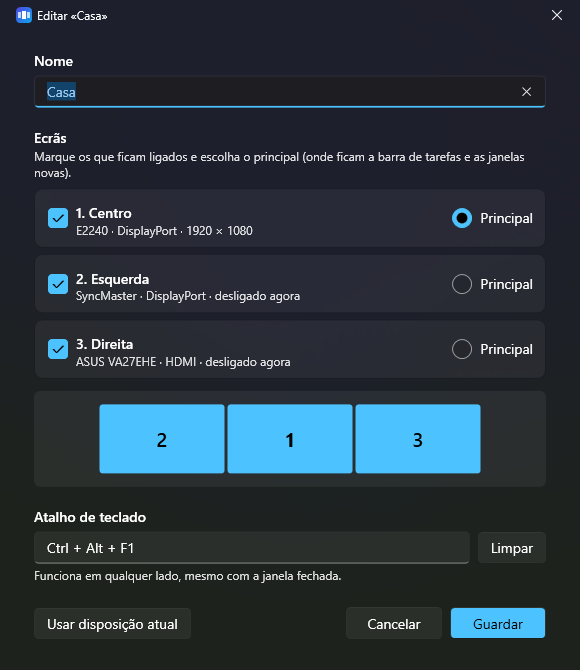
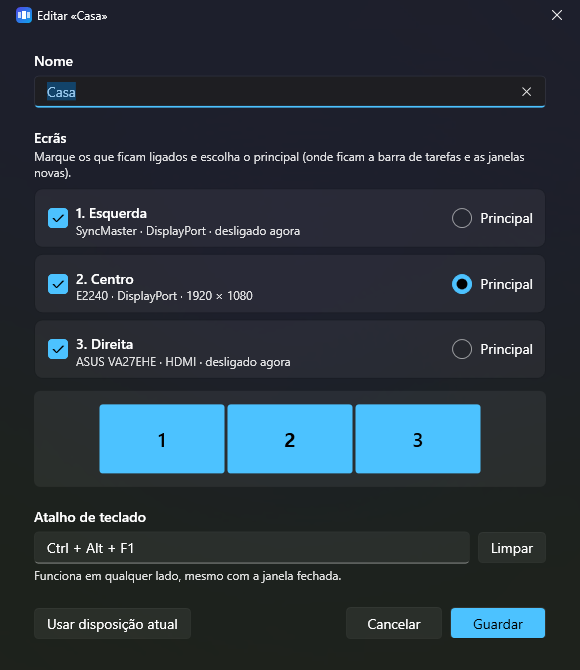
Desinstalador, GitHub Actions e ecrãs numerados pela posição
- tools/desinstalar.ps1: fecha a app e remove ficheiros, atalho e arranque
  automático; -Tudo apaga também os perfis e -WhatIf só simula. Não apaga
  pastas que sejam junções.
- compilar.yml compila a cada push (avisos contam como erros); publicar.yml
  cria a Release com o .exe leve, o autónomo e SHA256SUMS a cada etiqueta v*.
- As posições conhecidas passam a viver num referencial único, alinhado pelo
  ecrã que está ligado, e os ecrãs são numerados da esquerda para a direita,
  ligados ou não. As posições conhecidas são alinhadas com as de cada perfil
  antes de se misturarem.
- README e LEIAME: descarregar, desinstalar, compilação; capturas novas.

diff --git a/src/Triptico/App.xaml.cs b/src/Triptico/App.xaml.cs
@@ -136,15 +136,33 @@ public partial class App : Application
             return;
         }
 
+        // As posições conhecidas vivem num referencial único. As do Windows são relativas ao
+        // ecrã principal, que muda de perfil para perfil; por isso a disposição atual é
+        // alinhada com a última posição conhecida de um ecrã que esteja ligado agora.
+        var active = Monitors.Where(m => m.Active).ToList();
+        var anchor = active.FirstOrDefault(m => Settings.LastKnown.ContainsKey(m.Id));
+        var (dx, dy) = anchor is null ? (0, 0) : (Settings.LastKnown[anchor.Id].X - anchor.X, Settings.LastKnown[anchor.Id].Y - anchor.Y);
+
         var changed = false;
-        foreach (var m in Monitors.Where(m => m.Active))
+        foreach (var m in active)
         {
-            if (Settings.LastKnown.TryGetValue(m.Id, out var k) && k.X == m.X && k.Y == m.Y && k.Width == m.Width && k.Height == m.Height)
+            var (x, y) = (m.X + dx, m.Y + dy);
+            if (Settings.LastKnown.TryGetValue(m.Id, out var k) && k.X == x && k.Y == y && k.Width == m.Width && k.Height == m.Height)
                 continue;
-            Settings.LastKnown[m.Id] = new KnownRect { X = m.X, Y = m.Y, Width = m.Width, Height = m.Height };
+            Settings.LastKnown[m.Id] = new KnownRect { X = x, Y = y, Width = m.Width, Height = m.Height };
             changed = true;
         }
         if (changed && save) Save();
+
+        // Numerar pela posição física (da esquerda para a direita), esteja o ecrã ligado ou não;
+        // os que nunca estiveram ligados vão para o fim.
+        Monitors = Monitors
+            .OrderBy(m => Settings.LastKnown.ContainsKey(m.Id) ? 0 : 1)
+            .ThenBy(m => Settings.LastKnown.TryGetValue(m.Id, out var k) ? k.X : 0)
+            .ThenBy(m => Settings.LastKnown.TryGetValue(m.Id, out var k) ? k.Y : 0)
+            .ThenBy(m => m.Connector)
+            .ToList();
+
         StateChanged?.Invoke();
     }
 
@@ -158,9 +176,6 @@ public partial class App : Application
 
     /// <summary>Número do ecrã (1, 2, 3...) na lista "Ecrãs ligados".</summary>
     public int MonitorNumber(MonitorInfo m) => Monitors.IndexOf(m) + 1;
-
-    public LayoutRect? LastKnownRect(string monitorId) =>
-        Settings.LastKnown.TryGetValue(monitorId, out var k) ? new LayoutRect(k.X, k.Y, k.Width, k.Height) : null;
 
     public void Save()
     {
@@ -310,7 +325,7 @@ public partial class App : Application
         try
         {
             var snapshot = profile.Clone();
-            var known = Settings.LastKnown.ToDictionary(kv => kv.Key, kv => new LayoutRect(kv.Value.X, kv.Value.Y, kv.Value.Width, kv.Value.Height));
+            var known = Settings.KnownPositionsFor(profile);
             var result = await Task.Run(() => DisplayManager.Apply(snapshot, id => known.TryGetValue(id, out var r) ? r : null));
             Log.Write($"Perfil «{profile.Name}»: {result.Message}");
 
@@ -393,7 +408,7 @@ internal static class CommandLine
                 return true;
             }
 
-            var known = settings.LastKnown.ToDictionary(kv => kv.Key, kv => new LayoutRect(kv.Value.X, kv.Value.Y, kv.Value.Width, kv.Value.Height));
+            var known = settings.KnownPositionsFor(profile);
             var result = DisplayManager.Apply(profile, id => known.TryGetValue(id, out var r) ? r : null, validateOnly: cmd == "--testar");
             Console.WriteLine($"{profile.Name}: {result.Message}" + (result.Missing.Count > 0 ? " Em falta: " + string.Join(", ", result.Missing) : ""));
             exitCode = result.Success ? 0 : 1;

diff --git a/src/Triptico/Profiles/Profile.cs b/src/Triptico/Profiles/Profile.cs
@@ -81,6 +81,17 @@ public sealed class KnownRect
 
 public sealed class AppSettings
 {
+    /// <summary>
+    /// Últimas posições conhecidas, trazidas para o referencial do perfil (alinhadas por um
+    /// ecrã que tenha posição nos dois), para se poderem misturar com as posições do perfil.
+    /// </summary>
+    public Dictionary<string, Display.LayoutRect> KnownPositionsFor(Profile profile)
+    {
+        var anchor = profile.Monitors.FirstOrDefault(pm => pm.HasPosition && LastKnown.ContainsKey(pm.Id));
+        var (ox, oy) = anchor is null ? (0, 0) : (anchor.X!.Value - LastKnown[anchor.Id].X, anchor.Y!.Value - LastKnown[anchor.Id].Y);
+        return LastKnown.ToDictionary(kv => kv.Key, kv => new Display.LayoutRect(kv.Value.X + ox, kv.Value.Y + oy, kv.Value.Width, kv.Value.Height));
+    }
+
     public List<Profile> Profiles { get; set; } = [];
     /// <summary>Nomes dados pelo utilizador aos monitores (id → nome).</summary>
     public Dictionary<string, string> Aliases { get; set; } = [];

diff --git a/src/Triptico/Views/LayoutPreview.cs b/src/Triptico/Views/LayoutPreview.cs
@@ -66,12 +66,13 @@ public sealed class LayoutPreview : FrameworkElement
     public static IReadOnlyList<PreviewItem> For(Profiles.Profile profile, App app)
     {
         var map = DisplayManager.Resolve(profile.Monitors, app.Monitors);
+        var known = app.Settings.KnownPositionsFor(profile);
         var rects = new List<(LayoutRect Rect, Profiles.ProfileMonitor Pm)>();
         foreach (var pm in profile.Monitors)
         {
             LayoutRect? rect = pm.HasPosition
                 ? new LayoutRect(pm.X!.Value, pm.Y!.Value, pm.Width ?? 1920, pm.Height ?? 1080)
-                : app.LastKnownRect(pm.Id);
+                : known.TryGetValue(pm.Id, out var k) ? k : null;
             if (rect is null && map.TryGetValue(pm, out var live) && live.Active) rect = live.Bounds;
             if (rect is { } r) rects.Add((r, pm));
         }

diff --git a/README.md b/README.md
@@ -15,6 +15,10 @@
 </p>
 
 <p align="center">
+  <a href="https://github.com/zimutes/triptico/actions/workflows/compilar.yml"><img src="https://github.com/zimutes/triptico/actions/workflows/compilar.yml/badge.svg" alt="Build"></a>
+</p>
+
+<p align="center">
   <img src="docs/janela-principal.png" width="600" alt="Tríptico main window: four profiles with a miniature of each layout, and the three connected displays">
 </p>
 
@@ -50,8 +54,8 @@ The tools that do this properly tend to be paid, or bury it under a hundred othe
 Tríptico does one thing: **profiles for your displays**, one hotkey each.
 
 ```text
- Home       [ 2 ][ 1 ][ 3 ]     Ctrl + Alt + F1    all three, side by side
- Work            [ 1 ]          Ctrl + Alt + F2    just the one that stays
+ Home       [ 1 ][ 2 ][ 3 ]     Ctrl + Alt + F1    all three, side by side
+ Work            [ 2 ]          Ctrl + Alt + F2    just the one that stays
  Movie                [ 3 ]     Ctrl + Alt + F3    only the big screen
 ```
 
@@ -66,7 +70,8 @@ Tríptico does one thing: **profiles for your displays**, one hotkey each.
   about combinations that would break typing: on many European layouts Ctrl + Alt *is*
   AltGr, so Ctrl + Alt + 2 would cost you the `@`.
 - **Tray menu** listing your profiles, with the active one ticked.
-- **Identify displays** puts a large number on every screen for three seconds.
+- **Identify displays** puts a large number on every screen for three seconds. Displays are
+  numbered left to right as they sit on your desk, whether they're on or off right now.
 - **Your own names** for displays ("Left", "Laptop"…), used everywhere in the app.
 - **Command line**, for desktop shortcuts, Stream Deck buttons or scripts.
 - **Starts with Windows** if you want it to. No administrator rights needed, ever.
@@ -99,11 +104,19 @@ the monitor's EDID.
 
 ## Install
 
-**Requirements:** Windows 10 or 11 (x64) and the
-[.NET 10 Desktop Runtime](https://dotnet.microsoft.com/download/dotnet/10.0). Or build the
-self-contained version below and install nothing else.
+**Requirements:** Windows 10 or 11 (x64).
 
-Clone the repository and run, from PowerShell:
+**Download** from [Releases](https://github.com/zimutes/triptico/releases) when one is
+published:
+
+- `Triptico.exe` is small but needs the
+  [.NET 10 Desktop Runtime](https://dotnet.microsoft.com/download/dotnet/10.0).
+- `Triptico-autonomo-win-x64.zip` is self-contained and runs with nothing else installed.
+
+Each release is built by [GitHub Actions](.github/workflows/publicar.yml) from the tagged
+source and comes with `SHA256SUMS`.
+
+**Or build and install from source.** Clone the repository and run, from PowerShell:
 
 ```powershell
 .\tools\publicar.ps1              # builds one .exe and installs it for the current user
@@ -114,6 +127,17 @@ Clone the repository and run, from PowerShell:
 It installs to `%LOCALAPPDATA%\Programs\Triptico` and adds **Tríptico** to the Start menu.
 No administrator rights needed. The executable is unsigned, so Windows SmartScreen may ask
 first: *More info → Run anyway*.
+
+### Uninstall
+
+```powershell
+.\tools\desinstalar.ps1           # closes the app, removes the files, shortcut and autostart
+.\tools\desinstalar.ps1 -Tudo     # …and your profiles too
+.\tools\desinstalar.ps1 -WhatIf   # show what it would remove, delete nothing
+```
+
+Profiles stay in `%APPDATA%\Triptico` unless you pass `-Tudo`, so a reinstall finds them
+again.
 
 ## Using it
 
@@ -170,7 +194,11 @@ src/Triptico/
   Views/      WPF windows (Fluent theme, follows Windows light/dark)
 tools/
   publicar.ps1      build and install
+  desinstalar.ps1   remove it again
   gerar-icone.ps1   regenerate the icon
+.github/workflows/
+  compilar.yml      build check on every push
+  publicar.yml      release on every v* tag (git tag v1.0.0 && git push origin v1.0.0)
 ```
 
 **Please don't apply real profiles while testing.** It rearranges your actual screens.

diff --git a/LEIAME.md b/LEIAME.md
@@ -15,6 +15,10 @@
 </p>
 
 <p align="center">
+  <a href="https://github.com/zimutes/triptico/actions/workflows/compilar.yml"><img src="https://github.com/zimutes/triptico/actions/workflows/compilar.yml/badge.svg" alt="Compilação"></a>
+</p>
+
+<p align="center">
   <img src="docs/janela-principal.png" width="600" alt="Janela principal do Tríptico">
 </p>
 
@@ -47,8 +51,8 @@ As ferramentas que fazem isto bem costumam ser pagas ou esconder a função no m
 O Tríptico faz uma coisa só: **perfis de ecrãs**, um atalho para cada um.
 
 ```text
- Casa       [ 2 ][ 1 ][ 3 ]     Ctrl + Alt + F1    os três lado a lado
- Trabalho        [ 1 ]          Ctrl + Alt + F2    só o que fica
+ Casa       [ 1 ][ 2 ][ 3 ]     Ctrl + Alt + F1    os três lado a lado
+ Trabalho        [ 2 ]          Ctrl + Alt + F2    só o que fica
  Cinema               [ 3 ]     Ctrl + Alt + F3    só o ecrã grande
 ```
 
@@ -63,7 +67,8 @@ O Tríptico faz uma coisa só: **perfis de ecrãs**, um atalho para cada um.
   estragaria a escrita: no teclado português, Ctrl + Alt *é* o AltGr, e Ctrl + Alt + 2
   levava-lhe o `@`.
 - **Menu na bandeja** com os perfis e o ativo assinalado.
-- **Identificar ecrãs**: um número grande em cada monitor durante três segundos.
+- **Identificar ecrãs**: um número grande em cada monitor durante três segundos. Os ecrãs são
+  numerados da esquerda para a direita, como estão na secretária, ligados ou não.
 - **Nomes próprios** para os ecrãs («Esquerda», «Portátil»…).
 - **Linha de comandos**, para atalhos no ambiente de trabalho, Stream Deck ou scripts.
 - **Arranque com o Windows**, opcional e sem precisar de administrador.
@@ -91,9 +96,19 @@ monitor.
 
 ## Instalar
 
-**Requisitos:** Windows 10 ou 11 (x64) e o
-[.NET 10 Desktop Runtime](https://dotnet.microsoft.com/download/dotnet/10.0), ou a versão
-autónoma, que não precisa de mais nada.
+**Requisitos:** Windows 10 ou 11 (x64).
+
+**Descarregar** das [Releases](https://github.com/zimutes/triptico/releases), quando houver
+uma publicada:
+
+- `Triptico.exe` é pequeno, mas precisa do
+  [.NET 10 Desktop Runtime](https://dotnet.microsoft.com/download/dotnet/10.0).
+- `Triptico-autonomo-win-x64.zip` é autónomo e corre sem instalar mais nada.
+
+Cada versão é compilada pelas [GitHub Actions](.github/workflows/publicar.yml) a partir do
+código etiquetado e vem com `SHA256SUMS`.
+
+**Ou compilar e instalar a partir do código:**
 
 ```powershell
 .\tools\publicar.ps1              # compila um .exe e instala-o para o utilizador atual
@@ -104,6 +119,17 @@ autónoma, que não precisa de mais nada.
 Fica em `%LOCALAPPDATA%\Programs\Triptico`, com **Tríptico** no menu Iniciar. O executável não
 está assinado, por isso o SmartScreen pode perguntar primeiro: *Mais informações → Executar mesmo
 assim*.
+
+### Desinstalar
+
+```powershell
+.\tools\desinstalar.ps1           # fecha a app, apaga os ficheiros, o atalho e o arranque automático
+.\tools\desinstalar.ps1 -Tudo     # …e também os perfis
+.\tools\desinstalar.ps1 -WhatIf   # mostra o que apagaria, sem apagar nada
+```
+
+Os perfis ficam em `%APPDATA%\Triptico`, a não ser que use `-Tudo`, para uma reinstalação os
+voltar a encontrar.
 
 ## Usar
 
@@ -148,6 +174,9 @@ portátil, testes), e uma cópia com pasta própria corre ao lado da instalada.
 dotnet build src/Triptico
 dotnet run --project src/Triptico -- --listar
 ```
+
+As GitHub Actions compilam a cada push (`compilar.yml`) e publicam uma Release a cada etiqueta
+`v*` (`publicar.yml`): `git tag v1.0.0 && git push origin v1.0.0`.
 
 **Não aplique perfis a sério durante testes**, porque mexe nos seus ecrãs. Use `--testar` com
 `TRIPTICO_DADOS` a apontar para uma pasta de testes.
